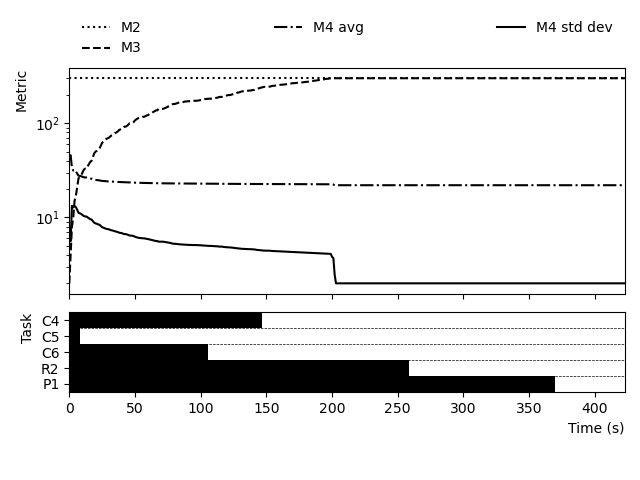
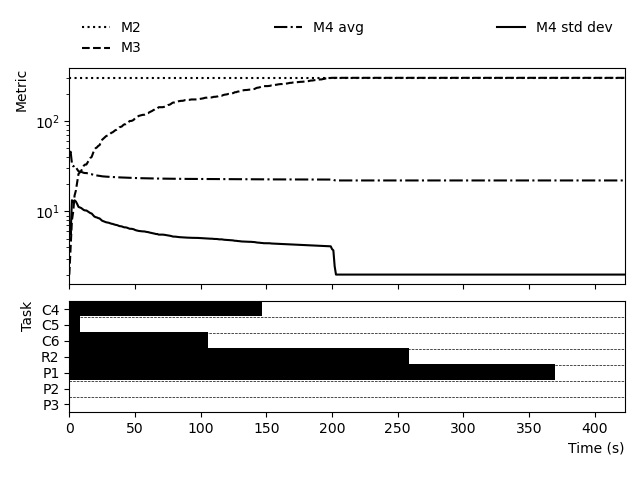
Plot also P2 and P3

diff --git a/script/simulation_plot.py b/script/simulation_plot.py
@@ -70,9 +70,9 @@ if __name__ == '__main__':
 
     plt.subplot(2, 1, 2)
     if ATTACK_START is not None:
-        tasks = ["C5", "C6", "C7", "C11", "R2", "R5", "P1"]
+        tasks = ["C5", "C6", "C7", "C11", "R2", "R5", "P1", "P2", "P3"]
     else:
-        tasks = ["C4", "C5", "C6", "R2", "P1"]
+        tasks = ["C4", "C5", "C6", "R2", "P1", "P2", "P3"]
     data = [[int(v) for v in evaluations[k]] for k in tasks]
     plt.imshow(data, interpolation="nearest", aspect=len(indexes) / 35,
                cmap=ListedColormap(["k", "w"]))
